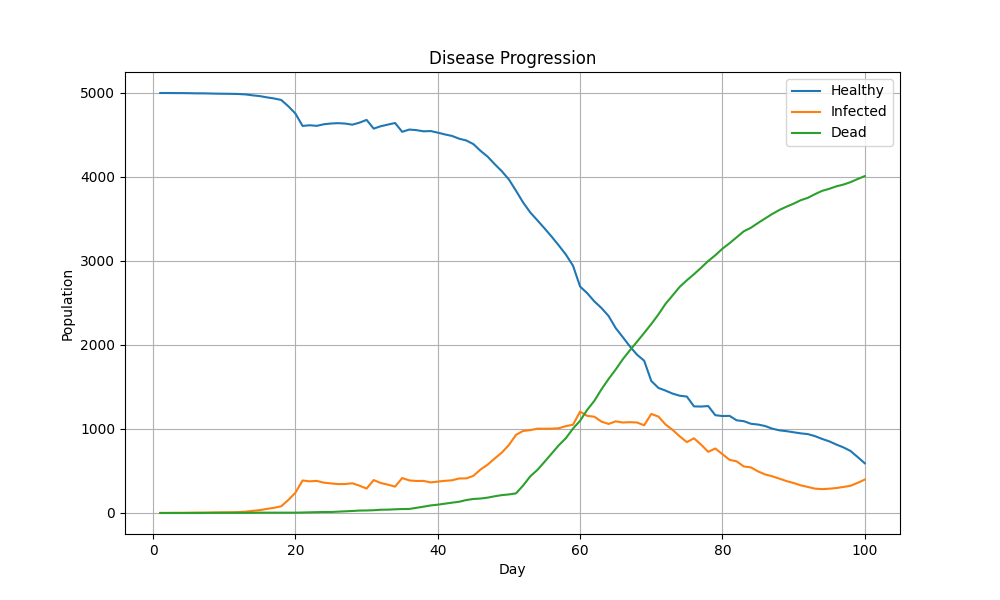
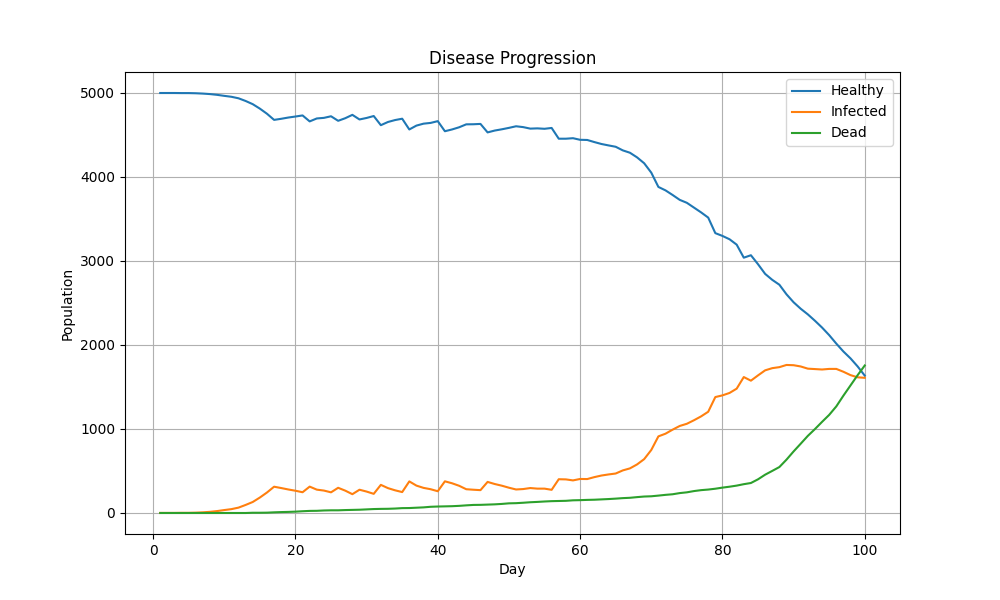
worked on the graphical representation of the spread

diff --git a/engine/network_map.py b/engine/network_map.py
@@ -1,8 +1,31 @@
 import networkx as nx
 import matplotlib.pyplot as plt
 
+plt.ion()
 
-def generate_world_map(states, routes):
+fig, ax = plt.subplots(
+    figsize=(10, 8)
+)
+
+# Fixed map layout
+POSITIONS = {
+
+    "state_1": (0, 2),
+
+    "state_2": (2, 3),
+
+    "state_3": (2, 1),
+
+    "state_4": (4, 2),
+
+    "state_5": (3, -1)
+
+}
+
+
+def update_world_map(states, routes):
+
+    ax.clear()
 
     G = nx.Graph()
 
@@ -18,58 +41,68 @@ def generate_world_map(states, routes):
         ) / state.population_size
 
         G.add_node(
-            state.name,
+            f"{state.name}\nI:{infected}\nD:{dead}",
             impact=impact
         )
 
     # Add routes
     for route in routes:
 
-        G.add_edge(
-            route.source.name,
-            route.destination.name,
-            weight=route.daily_travellers
-        )
+        source = route.source.name
+        destination = route.destination.name
 
-    # Color nodes by impact
-    node_colors = []
+        source_label = None
+        destination_label = None
+
+        for node in G.nodes:
+
+            if node.startswith(source):
+                source_label = node
+
+            if node.startswith(destination):
+                destination_label = node
+
+        if source_label and destination_label:
+
+            G.add_edge(
+                source_label,
+                destination_label,
+                weight=route.daily_travellers
+            )
+
+    # Node colors
+    node_colors = [
+
+        G.nodes[node]["impact"]
+
+        for node in G.nodes
+    ]
+
+    # Fixed positions
+    pos = {}
 
     for node in G.nodes:
 
-        impact = G.nodes[node]["impact"]
+        state_name = node.split("\n")[0]
 
-        if impact < 0.25:
-            node_colors.append("green")
-
-        elif impact < 0.50:
-            node_colors.append("yellow")
-
-        elif impact < 0.75:
-            node_colors.append("orange")
-
-        else:
-            node_colors.append("red")
-
-    plt.figure(
-        figsize=(10, 8)
-    )
-
-    pos = nx.spring_layout(
-        G,
-        seed=42
-    )
+        pos[node] = POSITIONS[
+            state_name
+        ]
 
     nx.draw_networkx_nodes(
         G,
         pos,
         node_color=node_colors,
-        node_size=2000
+        cmap=plt.cm.Reds,
+        vmin=0,
+        vmax=1,
+        node_size=3500
     )
 
     nx.draw_networkx_labels(
         G,
         pos,
-        font_size=10
+        font_size=8
     )
 
     nx.draw_networkx_edges(
@@ -86,17 +119,16 @@ def generate_world_map(states, routes):
     nx.draw_networkx_edge_labels(
         G,
         pos,
-        edge_labels=edge_labels
+        edge_labels=edge_labels,
+        font_size=8
     )
 
-    plt.title(
-        "World Infection Network"
+    ax.set_title(
+        "Live Epidemic Spread"
     )
 
-    plt.axis("off")
+    ax.axis("off")
 
-    plt.savefig(
-        "world_map.png"
-    )
+    plt.draw()
 
-    plt.close()
+    plt.pause(0.001)

diff --git a/engine/sim.py b/engine/sim.py
@@ -1,10 +1,12 @@
 import random
+import time
+
 from models.status import Status
 from data.mutation import MUTATIONS
 from engine.travel import travel_spread
 from engine.history import History
 from world.world_graph import display_world 
-from engine.network_map import generate_world_map
+from engine.network_map import update_world_map
 from events.events import EVENTS
 
 def simulate_day(state, virus):
@@ -69,6 +71,12 @@ class Simulation:
                 simulate_day(state, virus)
 
             travel_spread(routes)
+
+            update_world_map(
+                states,
+                routes
+            )
+            time.sleep(0.15)
 
             total_inf = 0
             total_dead = 0
@@ -203,8 +211,4 @@ class Simulation:
 
         history.support_graph()
 
-        generate_world_map(
-            states,
-            routes
-        )
                 